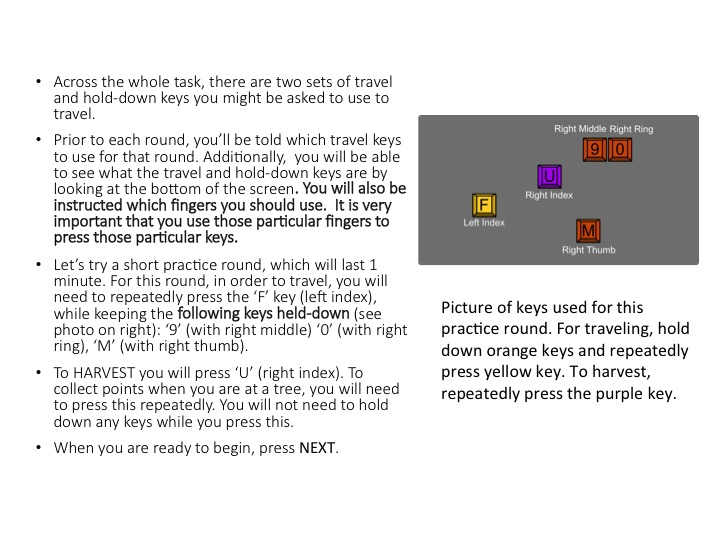
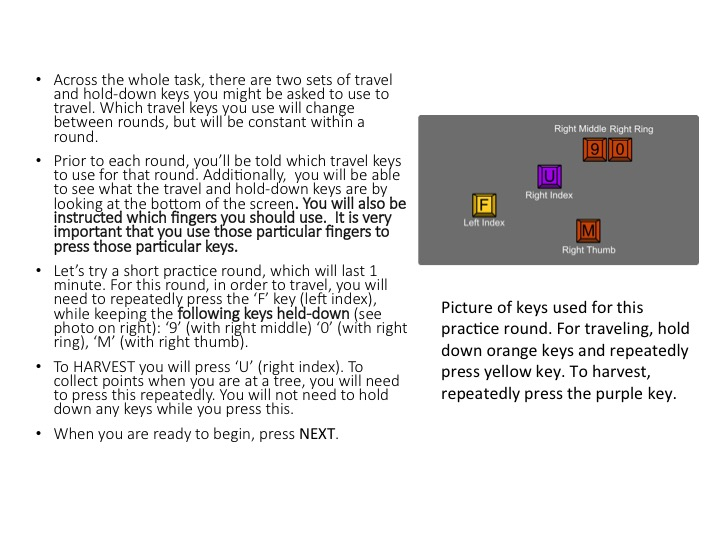
...

Changed region(s): [[0.0611, 0.1185, 0.5806, 0.8593]]

diff --git a/public/ver_6/index.js b/public/ver_6/index.js
@@ -107,7 +107,7 @@ function task(uid){
 
     var n_rounds = 1;
 
-    var easy_first = 0;//(Math.random() < .5);
+    easy_first = (Math.random() < .5);
 
     // block the hard and easy trials...
 
@@ -232,7 +232,6 @@ for (var i = 0;i < forage_trials.length;  i++){
 
 var task_name = 'foragetask';
 
-
 //db.collection("tasks").doc('meg_generalisation_8').collection('subjects').doc(uid).collection('trial_data').doc('trial_' + trial_data.trial_number.toString()).set({trial_data});
 
 // add a trial num
@@ -278,7 +277,7 @@ var make_summary_trial = function(travel_prompt, harvest_prompt, trial_num){
       console.log(lasttimelinedata)
       return "You collected " + total_points + " points in the last 6 minute period.";
     },
-    line_2: "Great work. Take a short break.",
+    line_2: "Great work.",
     line_3: "You've completed " + (trial_num)/3 + " out of 2 rounds.",
   }
   return text_trial
@@ -289,12 +288,13 @@ trials = forage_trials;
 var timeline = [];
 timeline.push(full_screen);
 
-// timeline = timeline.concat(intro_w_trials);
+timeline = timeline.concat(intro_w_trials);
 
 for (i = 0; i < trials.length; i++){
   var next_task_trial = trials[i];
   if (i == 0){
     next_task_trial.show_change_message = false;
+    next_task_trial.use_last_person_pos = false;
   }
 
   //var info_trial = {
@@ -307,7 +307,7 @@ for (i = 0; i < trials.length; i++){
   var summary_trial = make_summary_trial(next_task_trial.travel_prompt, next_task_trial.harvest_prompt, i + 1);
   //timeline.push(info_trial);
   //timeline.push(next_trial_text);
-  if (i == 0){
+  if (i == 0 | i == 3){
     timeline.push(next_trial_text);
   }
   timeline.push(next_task_trial);
@@ -372,7 +372,7 @@ for (i = 0; i < trials.length; i++){
         var random_total_points = jsPsych.randomization.sampleWithoutReplacement(total_points_arr, 1);
 
         var string = 'You have finished the task. Thank you for your contribution to science! \
-                 On a randomly selected round, you recevieved ' + random_total_points + ' points. Your bonus will be based on this number. \
+                  You will receive your payment and bonus shortly. \
               <b> PLEASE CLICK END TASK TO SUBMIT THE TASK TO PROLIFIC </b>.';
 
         db.collection('foragetask').doc(run_name).collection('subjects').doc(uid).collection('taskdata').doc('end').set({
@@ -408,7 +408,6 @@ console.log(timeline)
     //on_finish: saveData
     }
   });
-
 }
 
 document.getElementById('header_title').innerHTML = "Online studies in learning, decision-making and cognition: Information and consent";

diff --git a/public/ver_6/define_instructions.js b/public/ver_6/define_instructions.js
@@ -20,7 +20,7 @@ var practice_trial2 = {
   press_success_prob_harvest: .5,
   reward_noise: 2.5,
   start_reward_noise: 4,
-  time_min: .01,
+  time_min: 1,
   travel_key_seq: ['a'],
   travel_prompt: ["Repeatedly press 'a' (left pinky) while holding down  't' , 'e' (left) and '0', '9', 'm' (right) to travel"],
   harvest_key_seq: ['u'],
@@ -40,7 +40,7 @@ var practice_trial1 = { // this is the easy condition...
   press_success_prob_harvest: .5,
   reward_noise: 2.5,
   start_reward_noise: 4,
-  time_min: .01,
+  time_min: 1,
   travel_key_seq: ['f'],
 	harvest_key_seq: ['u'],
   travel_prompt: ["Repeatedly press 'f' (left index) while holding down '0', '9', 'm' (right) to travel"],
@@ -87,7 +87,7 @@ var instruction_pages_c = {
 var questions = ["How long will each round last?", // 1
 				"What determines your bonus?", // 2
 				"How do you travel to a tree?", // 3
-				"Is the TRAVEL sequence the same in every round?", // 4
+				"Are the TRAVEL keys the same in every round?", // 4
 				"When you are at a tree, how do you collect points?", // 5
 				"What happens to the number of points a tree provides over time?", // 6
 				"When you are at a tree, how do you leave the tree?", // 7
